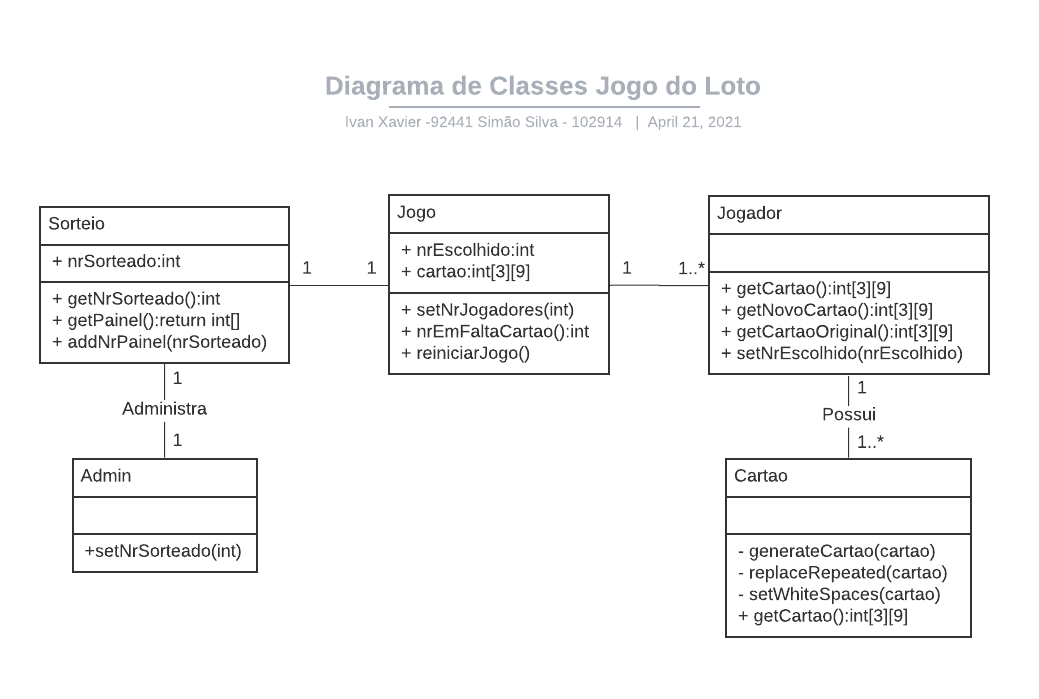
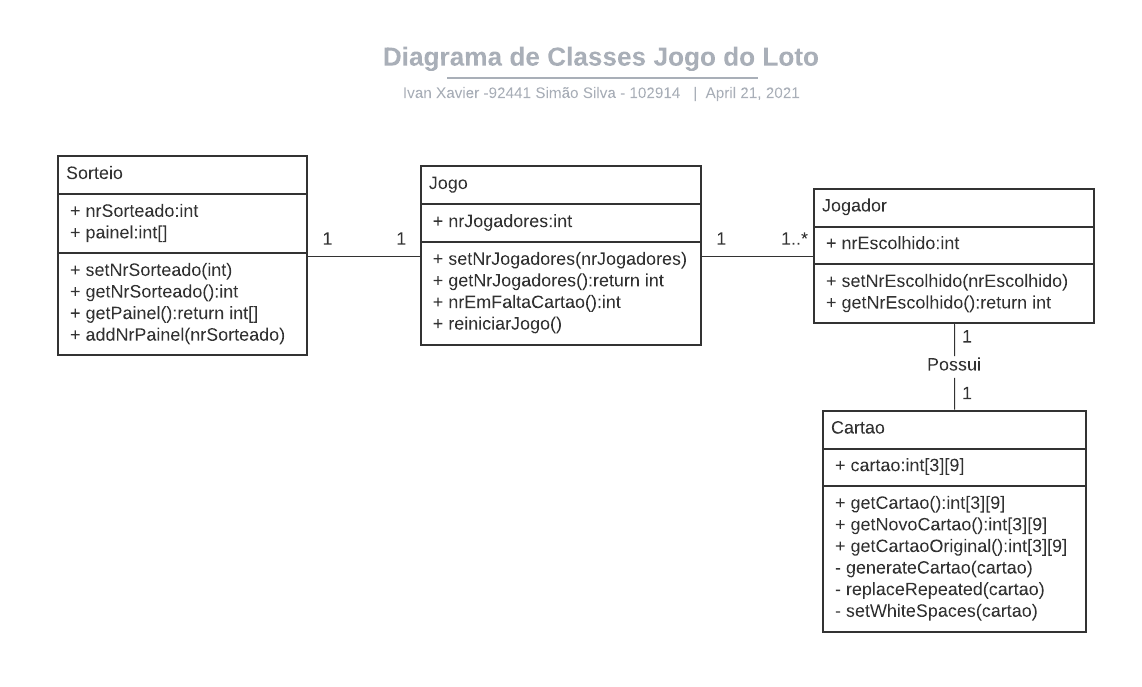
Diagrama de Classes

diff --git a/Jogo do Loto2/src/Cartao.java b/Jogo do Loto2/src/Cartao.java
@@ -1,19 +1,8 @@
 import java.util.Arrays;
 import java.util.Random;
 
-
-/**
- * Lotto Game developed for the curricular unit in Programming Laboratories
- * Game Class
- * @author Ivan Xavier - 92441
- * @author Simão Silva - 102914
- * @version 1.0
- */
-
-public class Game {
-    private int[] linhas = new int[3];
-    
-    /**
+public class Cartao {
+        /**
      * Generates the lotto card
      * <p>
      * The numbers generated at random are organized in intervals and columns,
@@ -146,46 +135,7 @@ public class Game {
         + "Boa Sorte!";
     }
 
-    /**
-     * Validates and assigned to the chosen number
-     * <p>
-     * Validates the entry of the chosen number and check if the number exists on the card,
-     * if it exists it is converted to its negative, when we replace the card to present on the console,
-     * we change the symbol " -" to an "X " in order to mark the choice.
-     * @param nrEscolhido int chosen by the user to be validated and assigned
-     * @param cartao int[3x][9x] card to be marked
-     * @since 1.3
-     */
-    public void setNrEscolhido(int nrEscolhido, int[][] cartao) {
-        try {
-            boolean nrChosen = false;
-            boolean nrExist = false;
-            if (nrEscolhido > 0 && nrEscolhido < 91) {
-                for (int lin=0; lin<3; lin++) {
-                    for (int col=0; col<9; col++) {
-                        if (nrEscolhido == cartao[lin][col]) {
-                            cartao[lin][col] = 0 - cartao[lin][col];
-                            nrExist = true;
-
-                        } else if(nrEscolhido == -cartao[lin][col]){
-                            nrChosen = true;
-                        }
-                    }
-                }
-                if (nrChosen == true) {  
-                    System.out.println("Este número já foi escolhido!");
-                } else if (nrExist == false) {  
-                    System.out.println("Infelizmente este número não existe no cartão!");
-                }                
-            } else {
-                System.out.println("Erro, Digite um valor de 1 a 90!");
-            }
-        } catch (Exception e) {
-            System.out.println("Erro, Digite um valor válido!");
-        }
-    }
-   
-    /**
+        /**
      * Transfer information from one array to another
      * <p>
      * This method transfers information between two cards
@@ -212,47 +162,4 @@ public class Game {
      * @return boolean translates the verification result to truth or lie
      * @since 1.0
      */
-    public boolean isConclusaoCartao(int[][] cartao) {
-        int nrEmFalta = 0;
-        for (int lin = 0; lin<3; lin++) {
-            int nrEmFaltaNaLinha = 0;
-            for (int col = 0; col < 9; col++) {
-                if (cartao[lin][col] >= 0 && cartao[lin][col] != 99) {
-                    nrEmFalta ++;
-                    nrEmFaltaNaLinha ++;
-                }
-            }
-            if(nrEmFaltaNaLinha == 0) {                
-                if(linhas[lin] == 0) {                   
-                    System.out.println("\nA linha " + (lin + 1) + " foi concluída!\n");
-                    linhas[lin] = 1;
-                }    
-            }     
-        }
-        if(nrEmFalta == 0) {
-            return true;
-        } return false;
-        
-    }
-     
-    /** 
-     * Convert the answer to a Boolean
-     * <p>
-     * The data entered by the user can be summed up in a positive or negative answer,
-     * this method allows this conversion.
-     * @param resposta a string to interpret the positive answer
-     * @return Boolean translation of the answer to positive or negative
-     * @since 1.2
-     */
-    public String restartGame(String resposta) {
-        if(resposta.equals("sim") || resposta.equals("Sim")|| resposta.equals("S") || resposta.equals("s")){
-            return "sim";
-        } else if(resposta.equals("Sair") || resposta.equals("sair")){
-            return "sair";}
-        else if(resposta.equals("nao") || resposta.equals("Nao")|| resposta.equals("N") || resposta.equals("n")){
-            return "nao";}
-        else {
-            return "";
-        }
-    }
 }

diff --git a/Jogo do Loto2/src/Jogador.java b/Jogo do Loto2/src/Jogador.java
@@ -1,0 +1,30 @@
+public class Jogador {
+    public void setNrEscolhido(int nrEscolhido, int[][] cartao) {
+        try {
+            boolean nrChosen = false;
+            boolean nrExist = false;
+            if (nrEscolhido > 0 && nrEscolhido < 91) {
+                for (int lin=0; lin<3; lin++) {
+                    for (int col=0; col<9; col++) {
+                        if (nrEscolhido == cartao[lin][col]) {
+                            cartao[lin][col] = 0 - cartao[lin][col];
+                            nrExist = true;
+
+                        } else if(nrEscolhido == -cartao[lin][col]){
+                            nrChosen = true;
+                        }
+                    }
+                }
+                if (nrChosen == true) {  
+                    System.out.println("Este número já foi escolhido!");
+                } else if (nrExist == false) {  
+                    System.out.println("Infelizmente este número não existe no cartão!");
+                }                
+            } else {
+                System.out.println("Erro, Digite um valor de 1 a 90!");
+            }
+        } catch (Exception e) {
+            System.out.println("Erro, Digite um valor válido!");
+        }
+    }
+}

diff --git a/Jogo do Loto2/src/Jogo.java b/Jogo do Loto2/src/Jogo.java
@@ -1,0 +1,24 @@
+public class Jogo {
+    private int[] linhas = new int[3];
+    public boolean isConclusaoCartao(int[][] cartao) {
+        int nrEmFalta = 0;
+        for (int lin = 0; lin<3; lin++) {
+            int nrEmFaltaNaLinha = 0;
+            for (int col = 0; col < 9; col++) {
+                if (cartao[lin][col] >= 0 && cartao[lin][col] != 99) {
+                    nrEmFalta ++;
+                    nrEmFaltaNaLinha ++;
+                }
+            }
+            if(nrEmFaltaNaLinha == 0) {                
+                if(linhas[lin] == 0) {                   
+                    System.out.println("\nA linha " + (lin + 1) + " foi concluída!\n");
+                    linhas[lin] = 1;
+                }    
+            }     
+        }
+        if(nrEmFalta == 0) {
+            return true;
+        } return false;
+    }
+}

diff --git a/Jogo do Loto2/src/Sorteio.java b/Jogo do Loto2/src/Sorteio.java
@@ -1,0 +1,7 @@
+public class Sorteio {
+    private int[] painel;
+    
+    public int[] getPainel(){
+        return painel;
+    }
+}
